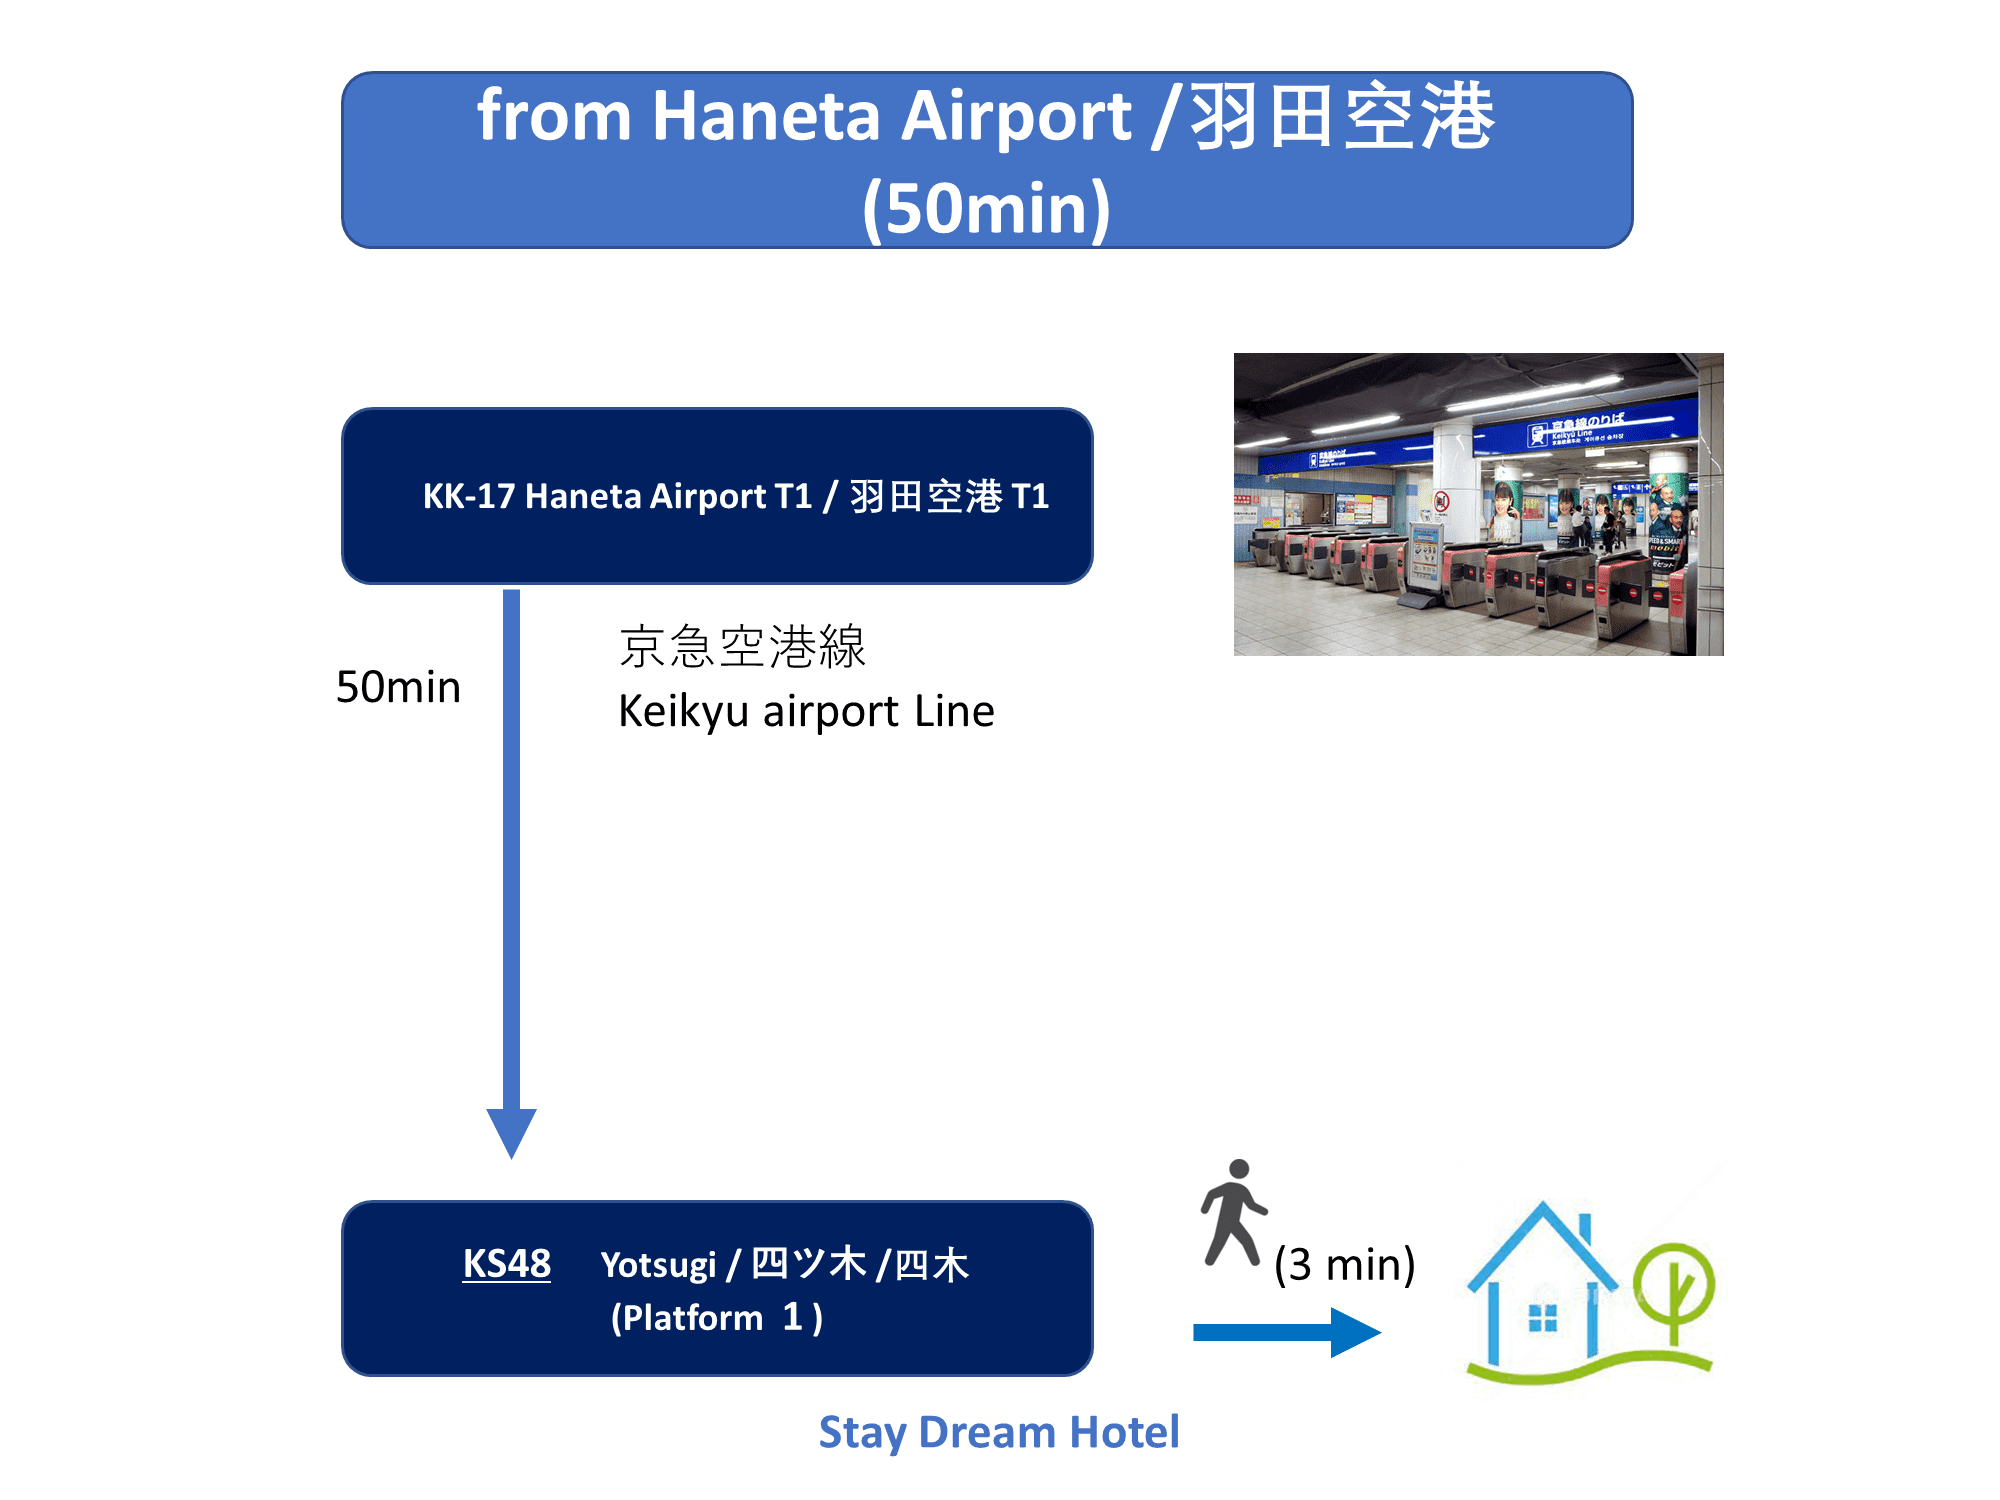
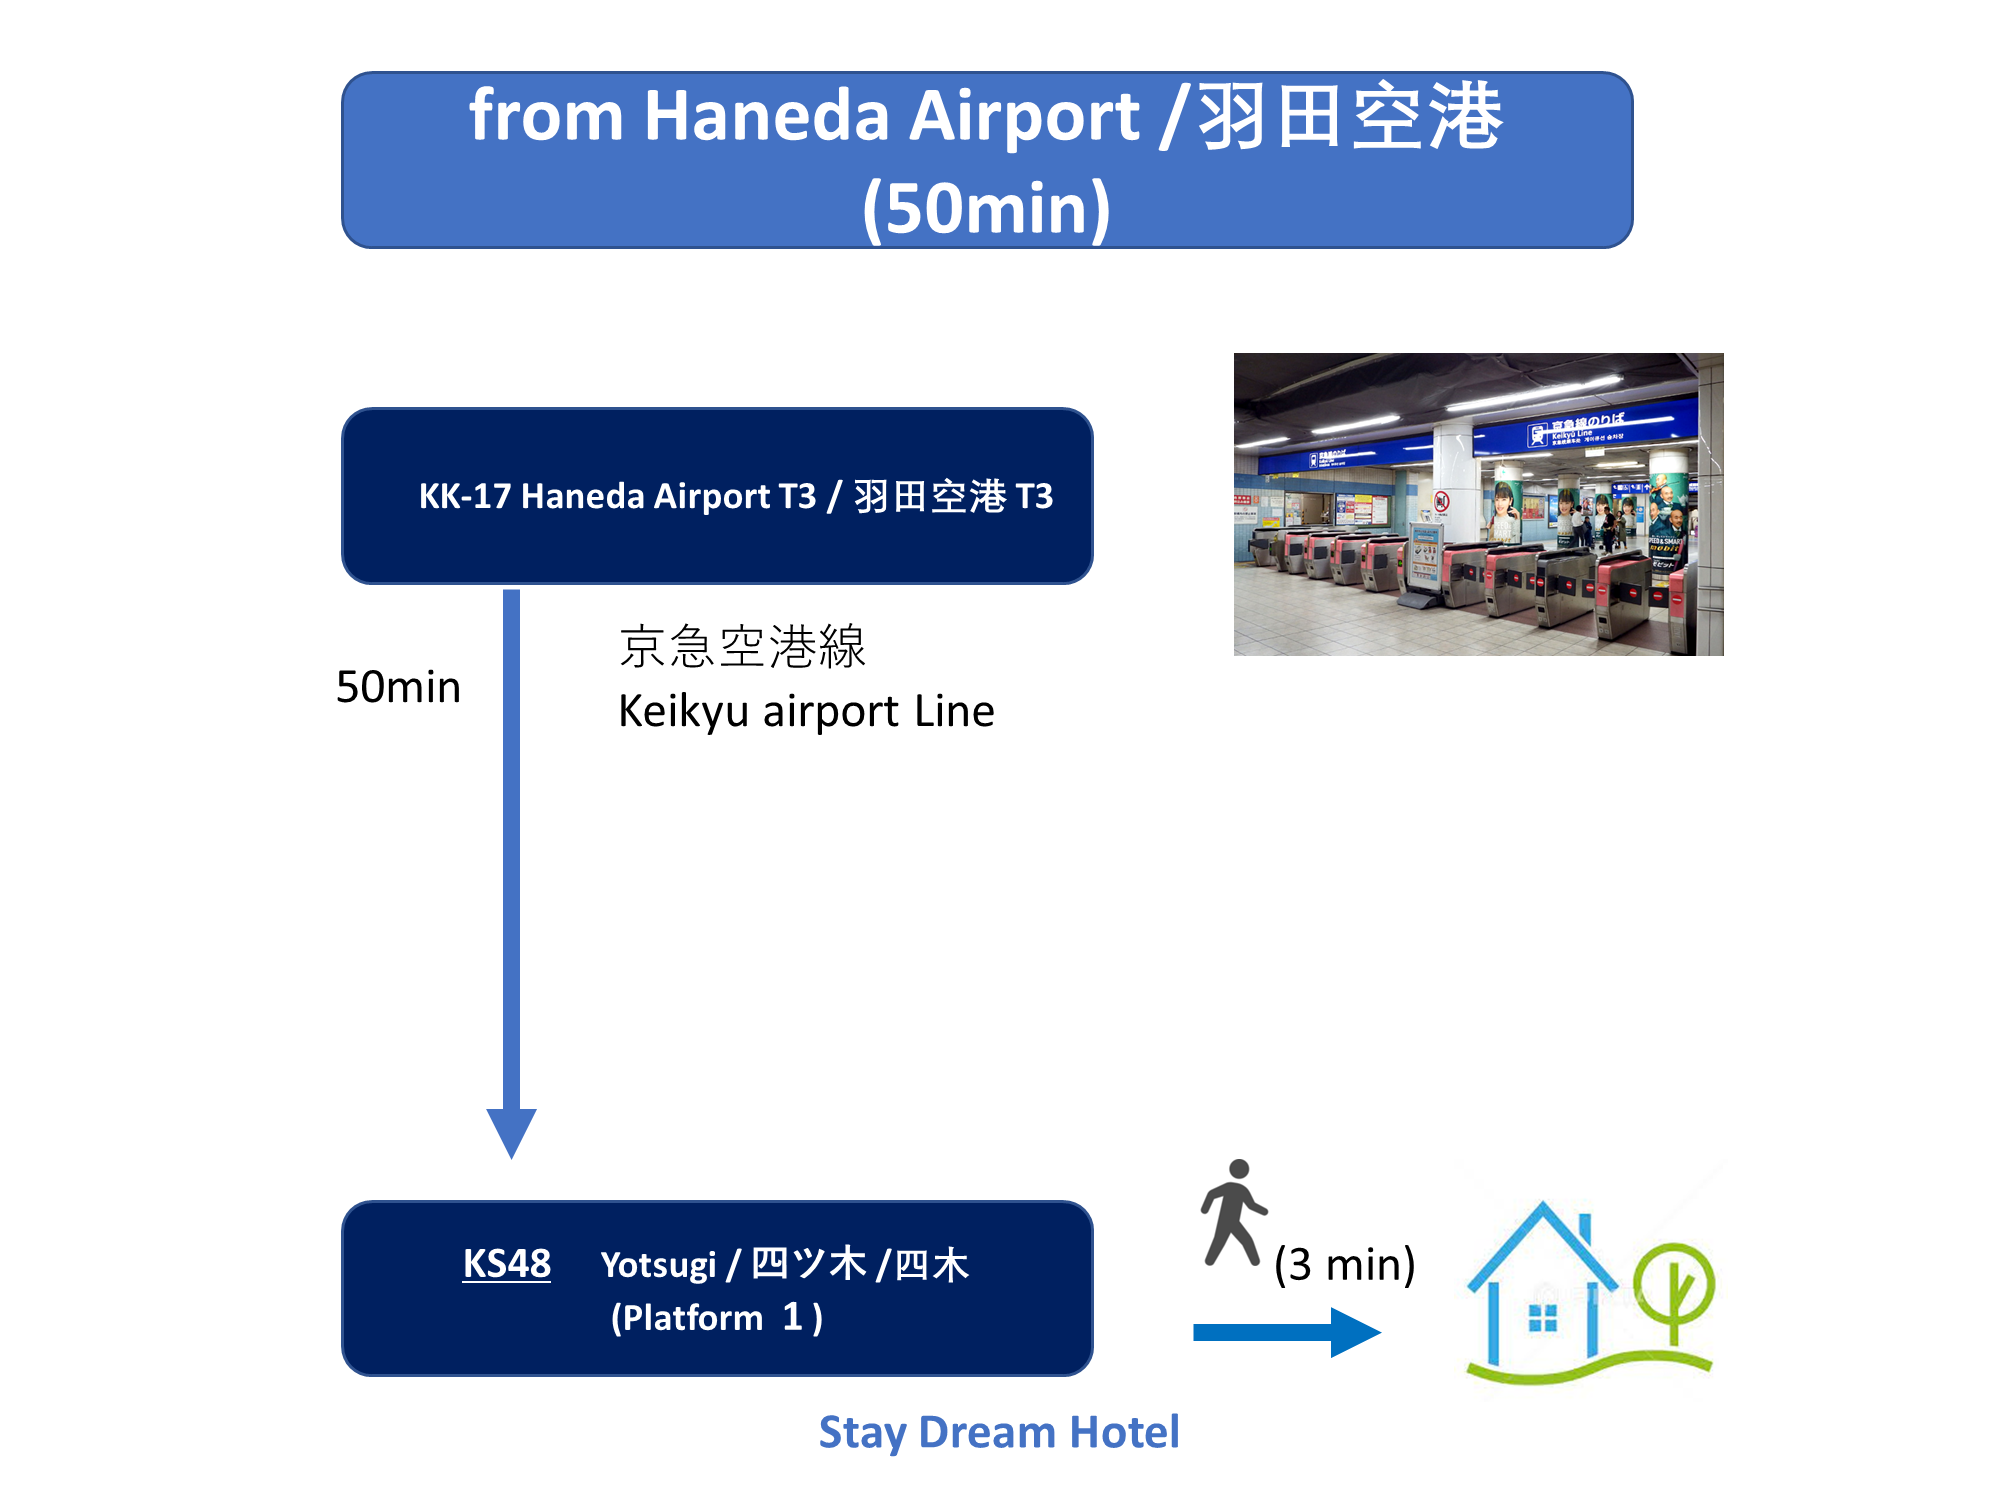
haneda

Changed region(s): [[0.217, 0.0307, 0.744, 0.1227], [0.217, 0.3067, 0.527, 0.3373]]

diff --git a/en/access.html b/en/access.html
@@ -287,7 +287,7 @@
                         <h2>3. Access Map by Train from Airports </h2>
                         <h4 class="pt-3"> <span class="border-botline">from Narita Airport to the Hotel </span></h4>
                         <img class="img-fluid pb-1" src="../assets/img/access/narita.png" alt>
-                        <h4 class="pt-3"> <span class="border-botline">from Haneta Airport to the Hotel </span></h4>
+                        <h4 class="pt-3"> <span class="border-botline">from Haneda Airport to the Hotel </span></h4>
                         <img class="img-fluid pb-1" src="../assets/img/access/haneda.png" alt>
                     </div>
 

diff --git a/ja/access.html b/ja/access.html
@@ -257,7 +257,7 @@
                         <h2>3. Access Map by Train from Airports </h2>
                         <h4> <span class="border-botline">from Narita Airport to the Hotel </span></h4>
                         <img class="img-fluid pb-1" src="../assets/img/access/narita.png" alt>
-                        <h4> <span class="border-botline">from Haneta Airport to the Hotel </span></h4>
+                        <h4> <span class="border-botline">from Haneda Airport to the Hotel </span></h4>
                         <img class="img-fluid pb-1" src="../assets/img/access/haneda.png" alt>
                     </div>
 
